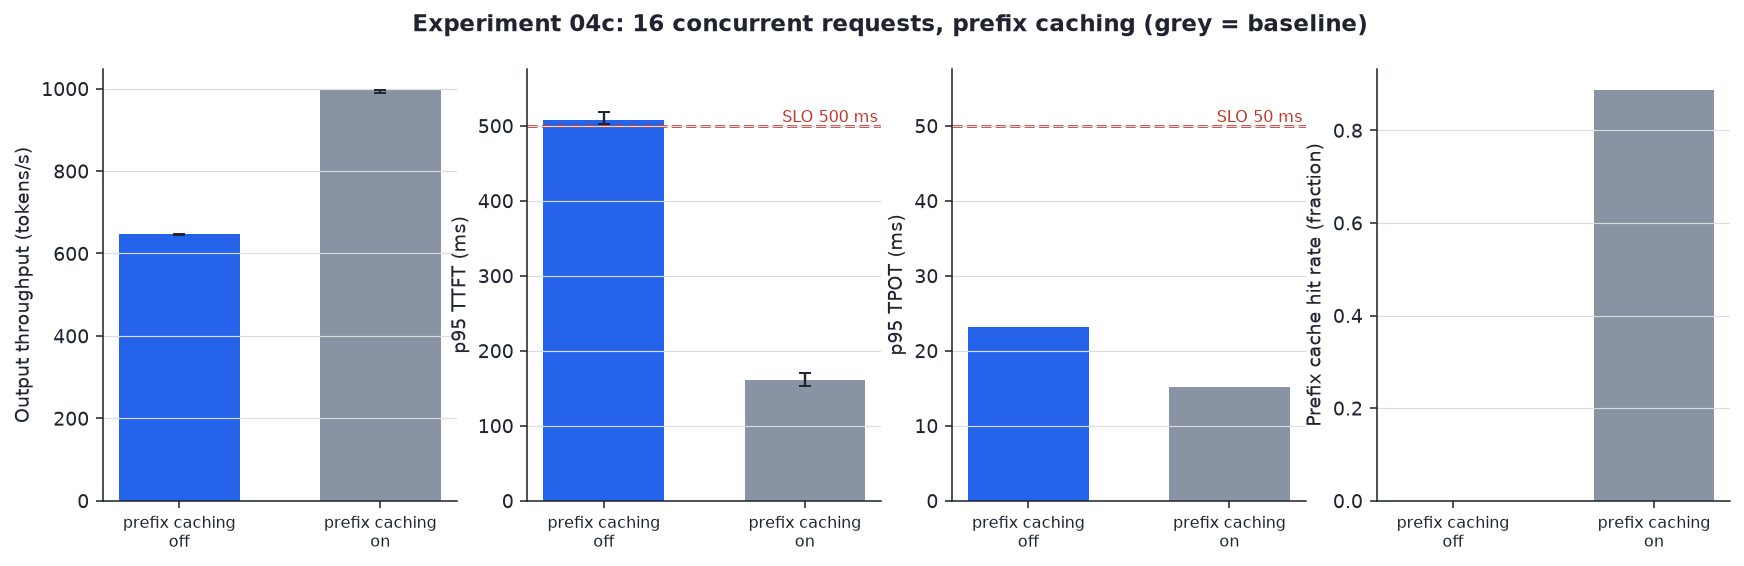
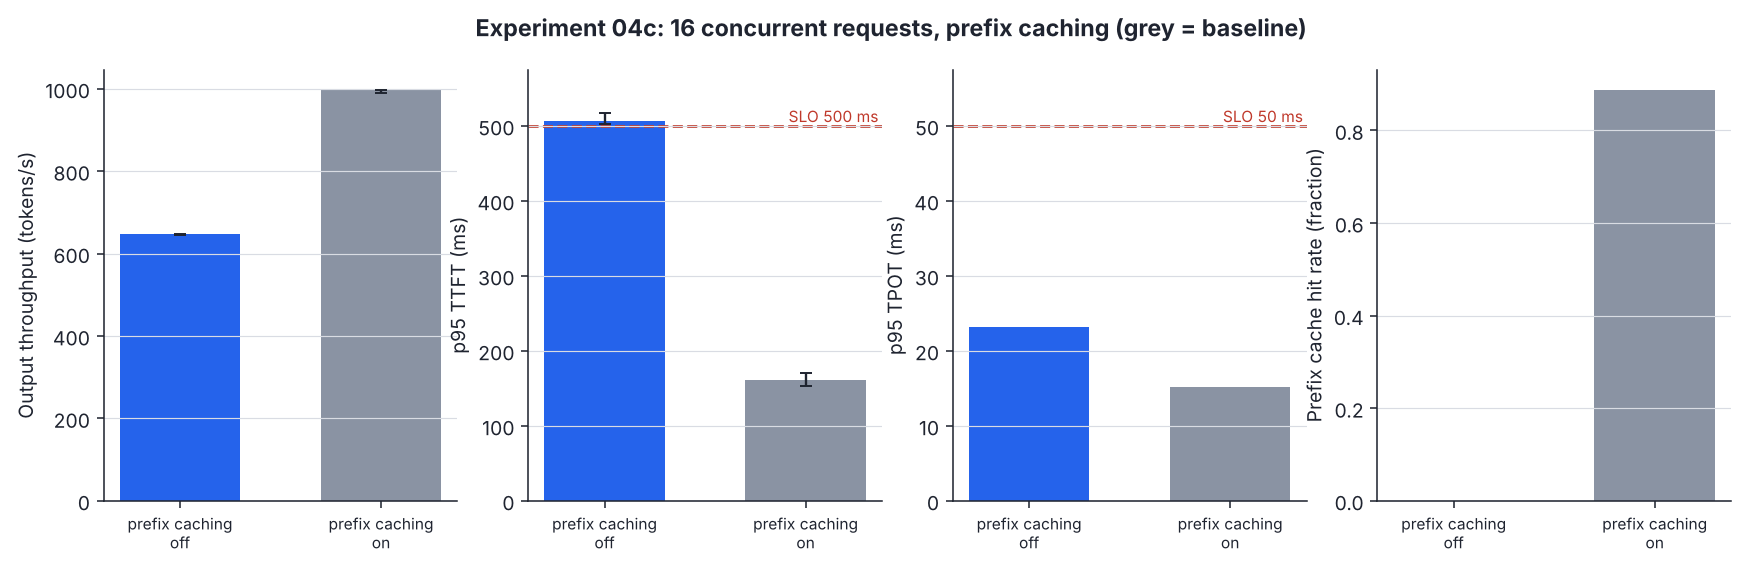
Combine clean 01-03 rerun with 04 results; rewrite report
01-03 from run 44748004817 (per-workload seeds, ~4% prefix-cache hit rate)
and 04a-04d from run 44708914259, medians of 3 repeats. 02 c64 now agrees
with 04a within 2.6%. Best SLO-compliant config moves from c32 ($0.14/1M,
an artifact of cache hits) to c16 ($0.27/1M). Report documents the seed
bug, corrects the 03 explanation, and adds p99 ITL evidence for 04b.

diff --git a/report.md b/report.md
@@ -1,71 +1,82 @@
 # vLLM serving: engineering report
 
-> **Correction pending (2026-11-20).** A 3-repeat rerun (`44708914259-1-L4`) showed run-to-run noise is tiny (throughput CV ≤ 3.3%), so the 23% gap noted under Limitations is *not* noise. It's a measurement bug: every workload used seed 42, so workloads run back-to-back on one server sent identical prompts and prefix caching served 69–94% of prefill from cache in **02 and 03**. Numbers in 02, 03 and the 05 pick below are inflated; 01 and 04a–04d were unaffected (≤ 5% hit rate, from warm-up). Fixed with per-workload seeds; 01–03 are being re-run.
+All numbers are medians of 3 repeats, each repeat in its own GPU container.
+- **01–03:** run `44748004817-1-L4` (per-workload seeds, see "Lesson" below).
+- **04a–04d:** run `44708914259-1-L4`.
 
-All numbers below come from run `44703863719-1-L4` (`results/summary.csv`, `results/SUMMARY.md`, `plots/`). Single run per point; see Limitations for how much to trust small differences.
+Combined outputs are in `results/summary_agg.csv`, `results/SUMMARY.md` and `plots/`. The first single-shot run (`44703863719-1-L4`) is kept in `results/raw/` for history only; its 02/03 numbers are wrong.
 
 ## Setup
 
-- Model: `Qwen/Qwen2.5-1.5B-Instruct`, bf16 (~3.1 GB of weights).
-- Engine: vLLM 0.34.0, V1 engine (continuous batching always on), `vllm serve` driven by `vllm bench serve`.
-- GPU: NVIDIA L4 (24 GB, ~300 GB/s memory bandwidth) on Modal at $0.80/hr (checked 2026-11-20).
-- Workload default: 512 input / 128 output tokens, random dataset, seed 42, `--ignore-eos`, `--temperature 0`, 10 discarded warm-up requests.
-- SLO: p95 TTFT ≤ 500 ms, p95 TPOT ≤ 50 ms, zero failed requests.
-- Every run: 0 failed requests.
+- **Model:** `Qwen/Qwen2.5-1.5B-Instruct`, bf16 (~3.1 GB of weights).
+- **Engine:** vLLM 0.34.0, V1 engine (continuous batching always on), prefix caching on in the baseline. `vllm serve` is driven by `vllm bench serve`.
+- **GPU:** NVIDIA L4 (24 GB, ~300 GB/s memory bandwidth) on Modal at $0.80/hr (price checked 2026-11-20).
+- **Workload default:** 512 input / 128 output tokens, random-token prompts with a seed per workload, `--ignore-eos`, `--temperature 0`, 10 warm-up requests.
+- **SLO:** p95 TTFT ≤ 500 ms, p95 TPOT ≤ 50 ms, zero failed requests.
+- **Reliability:** 0 failed requests in every measured run.
+- **Repeatability:** throughput CV across all 23 points is at most 3.3% (median 0.7%). p95 TTFT CV is at most 10.2% (median 2.9%). Differences larger than ~5% are real.
 
 ## 01 Baseline latency
 
 **Measured:** concurrency 1, 50 prompts.
 
-**Result:** TTFT p50 36 ms / p95 39 ms. TPOT 13.4 ms (≈ 75 tokens/s for one user). E2E p95 1.75 s for 128 output tokens.
+**Result:** TTFT p50 38 ms / p95 43 ms. TPOT 13.4 ms (~75 tokens/s for one user). E2E p95 1.75 s for 128 output tokens.
 
-**Why:** decode is memory-bandwidth-bound. Each new token reads every weight once: 3.1 GB / 300 GB/s ≈ 10.3 ms is the theoretical floor. We measured 13.4 ms, about 77% of the bandwidth roofline. The remaining gap is kernel launch overhead, attention over the KV cache, and sampling. A 512-token prefill takes only ~36 ms because prefill processes all prompt tokens in parallel (one weight read, many tokens), which makes it compute-bound rather than bandwidth-bound.
+**Why:** decode is memory-bandwidth-bound.
+- Each new token reads every weight once: 3.1 GB / 300 GB/s ≈ 10.3 ms is the floor. We measured 13.4 ms, about 77% of the bandwidth roofline. The gap is kernel launch overhead, attention over the KV cache, and sampling.
+- A 512-token prefill takes only ~38 ms because prefill processes all prompt tokens in one pass over the weights. That makes prefill compute-bound, not bandwidth-bound.
 
-**Interview takeaway:** "At batch 1 the GPU is a memory-bandwidth machine. I can predict TPOT from model size ÷ bandwidth, and my measurement was within ~25% of that floor."
+**Interview takeaway:** "At batch 1 the GPU is a memory-bandwidth machine. I can predict TPOT from model size ÷ bandwidth, and the measurement was within ~25% of that floor."
 
 ## 02 Concurrency sweep
 
-**Measured:** same workload at max concurrency 1, 4, 8, 16, 32, 64.
+**Measured:** the same workload at max concurrency 1, 4, 8, 16, 32 and 64, all on one server, each step with its own prompts.
 
-| conc | out tok/s | TTFT p95 (ms) | TPOT p50 (ms) | $/1M out tok | SLO |
-|---|---|---|---|---|---|
-| 1 | 73 | 48 | 13.5 | 3.04 | yes |
-| 8 | 545 | 89 | 14.2 | 0.41 | yes |
-| 32 | 1603 | 191 | 17.6 | 0.14 | yes |
-| 64 | 2438 | 832 | 22.0 | 0.09 | **no** |
+| conc | out tok/s | TTFT p95 (ms) | TPOT p50 (ms) | ITL p99 (ms) | $/1M out tok | SLO |
+|---|---|---|---|---|---|---|
+| 1 | 73 | 40 | 13.4 | 15 | 3.03 | yes |
+| 4 | 269 | 150 | 13.9 | 17 | 0.83 | yes |
+| 8 | 496 | 254 | 14.9 | 37 | 0.45 | yes |
+| 16 | 833 | 427 | 16.4 | 99 | 0.27 | yes |
+| 32 | 1231 | 809 | 21.5 | 129 | 0.18 | **no** |
+| 64 | 1804 | 1721 | 32.0 | 138 | 0.12 | **no** |
 
-**Result:** throughput scaled ~7.5× from 1→8 (almost perfectly linear) and ~33× from 1→64, while TPOT p50 only rose from 13.5 to 22 ms. The SLO breaks between 32 and 64: p95 TTFT jumps from 191 to 832 ms.
+**Result:**
+- **Throughput scales almost for free at first.** From 1 to 16 users, throughput rose 11× while TPOT only went from 13.4 to 16.4 ms (+23%). From 1 to 64 it rose 25×.
+- **The SLO breaks between 16 and 32 users, on p95 TTFT** (427 → 809 ms). p95 TPOT stays far under its 50 ms limit throughout.
+- **Memory is not the limit.** KV cache usage peaked at only 6.9% at concurrency 64.
 
-**Why:** batching amortizes the weight reads. One pass over the weights produces a token for every sequence in the batch, so up to ~16 concurrent requests each user barely notices (TPOT +10%) while total throughput climbs ~14×. Past that, each step does more compute and new prompts' prefills interleave with decode steps, so per-token latency starts to rise. At 64, prefill of new arrivals queues behind a busy engine, and that shows up first in the TTFT tail (p95), not the median. Memory was not the limit: KV cache usage peaked at only ~7% at concurrency 64.
+**Why:**
+- **Batching amortizes the weight reads.** One pass over the weights produces a token for every sequence in the batch, so at small batch sizes extra users cost almost nothing.
+- **Prefill is the bottleneck past that point.** As concurrency rises, more new prompts arrive per second. Their prefills queue and also interleave with decode steps. Queueing shows up in TTFT. Interleaving shows up as ITL p99 spikes (15 ms at 1 user, ~100–140 ms at 16+), where a decode token waits behind someone's prefill chunk.
+- **The tail goes first.** Median TTFT barely moves from 32 to 64 users (370 → 413 ms) while p95 doubles. Unlucky requests land behind a burst of prefills.
 
-**Interview takeaway:** "Concurrency is the cheapest lever: 22× lower cost per token from 1 to 32 users. The constraint that binds first is tail TTFT, not average latency and not memory."
+**Interview takeaway:** "Concurrency is the cheapest lever: 11× cost reduction from 1 to 16 users. The first thing to break is tail TTFT, driven by prefill queueing. It's not average latency and not memory."
 
 ## 03 Prefill vs decode
 
 **Measured:** input {128, 1024, 4096} × output {64, 512} at concurrency 8.
 
-| in → out | TTFT p50 (ms) | TPOT p50 (ms) | E2E p95 (s) |
-|---|---|---|---|
-| 128 → 64 | 54 | 13.8 | 0.95 |
-| 1024 → 64 | 237 | 17.5 | 1.39 |
-| 4096 → 64 | 708 | 34.3 | 3.16 |
-| 128 → 512 | 48 | 13.8 | 7.13 |
-| 1024 → 512 | 52 | 14.7 | 7.58 |
-| 4096 → 512 | 807 | 19.8 | 11.11 |
+| in → out | TTFT p50 (ms) | TPOT p50 (ms) | ITL p95 (ms) | E2E p95 (s) |
+|---|---|---|---|---|
+| 128 → 64 | 59 | 14.0 | 15 | 0.95 |
+| 1024 → 64 | 204 | 18.9 | 67 | 1.46 |
+| 4096 → 64 | 853 | 37.7 | 146 | 3.37 |
+| 128 → 512 | 67 | 14.0 | 14 | 7.24 |
+| 1024 → 512 | 207 | 15.3 | 15 | 8.10 |
+| 4096 → 512 | 855 | 20.0 | 18 | 11.23 |
 
 **Result:**
-- **Input length drives TTFT.** At 4096 input tokens, TTFT is 700–800 ms, over the SLO even at concurrency 8.
-- **Output length drives E2E.** Going from 64 to 512 output tokens raises E2E 3.5–7.5×, roughly output_len × TPOT on top of TTFT.
-- **Long prompts slow other users' decode.** At 4096→64, TPOT p50 is 34 ms and ITL p95 is 142 ms, versus ~14 ms for short prompts.
-- **Odd one out.** 1024→512 has a *lower* TTFT (52 ms) than 1024→64 (237 ms).
+- **Input length sets TTFT,** and output length has no effect on it: 59 / 204 / 853 ms for 128 / 1024 / 4096 input tokens, the same with 64 or 512 outputs. 4096-token prompts miss the 500 ms SLO even at concurrency 8.
+- **Output length sets E2E.** Going from 64 to 512 output tokens raises E2E 3.3–7.6×. E2E ≈ TTFT + output_len × TPOT; for example, 67 ms + 512 × 14 ms ≈ 7.2 s.
+- **Long prompts slow everyone's decode, but only when outputs are short.** At 4096 → 64, TPOT is 37.7 ms with ITL p95 146 ms. At 4096 → 512, it's 20.0 ms with ITL p95 18 ms.
 
 **Why:**
 - **Prefill.** Prefill work grows with prompt length (linear for the MLPs, quadratic for attention), so TTFT tracks input length.
-- **Decode.** Decode emits one token per step per sequence, so E2E tracks output length.
-- **Interference.** When a 4096-token prefill is chunked into the same steps as other sequences' decode, those decode tokens wait. That is the TPOT/ITL hit.
-- **The odd case.** With short outputs, all 8 requests finish at about the same time and the next 8 arrive together, so their prefills collide. With long outputs, completions are staggered, so a new prompt usually prefills nearly alone. This is a workload-shape effect, not a property of 1024-token prompts.
+- **Decode.** Decode produces one token per step per sequence, so E2E tracks output length.
+- **The decode slowdown is a ratio effect.** A short-output request finishes quickly and is replaced by a new one, which brings a new 4096-token prefill. With 64-token outputs, prefills are a large share of all GPU steps, and decode tokens keep waiting behind them. With 512-token outputs, the same prefills are spread across 8× more decode steps, so the interference is diluted.
 
-**Interview takeaway:** "Prefill sets TTFT, decode sets E2E, and long prefills hurt everyone else's decode. That interference is exactly what chunked prefill (04b) is meant to manage."
+**Interview takeaway:** "Prefill sets TTFT, decode sets E2E, and how much prefill hurts decode depends on the ratio of prompt tokens to generated tokens. RAG-style traffic with long prompts and short answers is the worst case."
 
 ## 04a max_num_seqs (batch width)
 
@@ -73,13 +84,13 @@ All numbers below come from run `44703863719-1-L4` (`results/summary.csv`, `resu
 
 | max_num_seqs | out tok/s | TTFT p50 | TPOT p50 |
 |---|---|---|---|
-| 8 | 504 | 14.4 s | 14.9 ms |
-| 32 | 1343 | 3.2 s | 22.2 ms |
-| 256 | 1869 | 0.38 s | 31.0 ms |
+| 8 | 504 | 14.3 s | 14.9 ms |
+| 32 | 1345 | 3.2 s | 21.9 ms |
+| 256 | 1851 | 0.39 s | 31.3 ms |
 
-**Result:** capping the batch at 8 cut throughput 3.7× and pushed median TTFT to 14 seconds. The small cap did give the best per-token latency (14.9 ms vs 31 ms).
+**Result:** capping the batch at 8 cut throughput 3.7× and pushed median TTFT to 14 seconds, while giving the fastest tokens per user (14.9 ms vs 31.3 ms).
 
-**Why:** V1 always batches continuously, but `max_num_seqs` limits how many sequences can share each step. With a cap of 8, 56 of the 64 requests sit in the waiting queue, so TTFT becomes pure queueing time. The running 8 get fast, light decode steps. A wider batch spreads each weight read over more sequences, giving higher throughput but a heavier step and slower tokens for each user.
+**Why:** V1 always batches continuously, but `max_num_seqs` limits how many sequences share each step. With a cap of 8, 56 of 64 requests sit in the waiting queue, so their TTFT is pure queueing time. The 8 that are running get light, fast decode steps. A wider batch spreads each weight read over more sequences: more throughput, but a heavier step and slower tokens for each user.
 
 **Interview takeaway:** "Batch width trades per-user token speed against queueing. Too narrow and users wait in line; for an interactive SLO the queue is the bigger problem."
 
@@ -87,39 +98,41 @@ All numbers below come from run `44703863719-1-L4` (`results/summary.csv`, `resu
 
 **Measured:** token budget per step of 512 / 2048 (baseline) / 8192, with 4096-token prompts at concurrency 16.
 
-| budget | out tok/s | TTFT p50 | TPOT p50 | ITL p95 |
-|---|---|---|---|---|
-| 512 | 288 | 636 ms | 50.2 ms | 57 ms |
-| 2048 | 297 | 875 ms | 47.0 ms | 147 ms |
-| 8192 | 291 | 1914 ms | 39.8 ms | 28 ms |
+| budget | out tok/s | TTFT p50 | TPOT p50 | ITL p95 | ITL p99 |
+|---|---|---|---|---|---|
+| 512 | 285 | 642 ms | 51.1 ms | 57 ms | 59 ms |
+| 2048 | 300 | 768 ms | 47.0 ms | 147 ms | 151 ms |
+| 8192 | 289 | 1938 ms | 39.6 ms | 27 ms | **560 ms** |
 
-**Result:** throughput was the same within noise (~3%), so this knob doesn't buy throughput here. What it changes is how latency is distributed:
-- **512:** best TTFT, worst TPOT.
-- **8192:** worst TTFT, best TPOT and best p95 ITL.
-- **2048:** a bad p95 ITL. No config met the SLO, because 4096-token prompts at concurrency 16 are too heavy for an L4 with this model.
+**Result:** throughput is flat (285–300 tok/s), so this knob doesn't buy throughput. It changes the *shape* of the latency:
+- **512:** best TTFT. Inter-token latency is consistently ~57 ms with no spikes.
+- **2048:** frequent medium stalls of ~150 ms.
+- **8192:** worst TTFT and the best p95 ITL (27 ms), but a **560 ms p99**, the worst stall of the three.
 
-**Why (best explanation, worth re-running to confirm):**
-- **512.** Long prompts are split into many small chunks. Every step stays light, so decode is never badly stalled, but prefill work is spread across many steps that all carry some extra load, which raises median TPOT.
-- **8192.** A whole 4096-token prompt fits in one step. Prefills finish in a few big steps, so most decode steps are pure decode and fast (low p95 ITL). The stalls become rarer but larger, and p95 hides them. Admitting big prefills in bursts also lengthens the queue for later arrivals (high TTFT).
-- **2048.** Each prompt takes two medium chunks, so moderate stalls land on more than 5% of tokens, which shows up in p95 ITL.
+No config meets the SLO; 4096-token prompts at concurrency 16 are too heavy for this GPU and model.
 
-p99/max ITL would separate "rare big stalls" from "frequent medium stalls". That is the next measurement to add.
+**Why:**
+- **Same work, different scheduling.** The chunk budget decides how a long prefill is sliced across engine steps. Total work is the same, so throughput doesn't change. What changes is how the cost lands on concurrent decodes.
+- **512.** Many small chunks. Every step carries a little prefill, so decode is never badly stalled, but every token is a bit slower (high median TPOT).
+- **8192.** A whole 4096-token prompt fits in one step, so most steps are pure decode and fast. When a prefill step does happen, every decoding sequence waits for all of it: rare but huge stalls. They are invisible at p95 (27 ms) and dominant at p99 (560 ms).
+- **2048.** Two medium chunks per prompt, so medium stalls land on more than 5% of tokens.
+- **TTFT.** Larger budgets let the scheduler admit several big prefills at once, which delays later arrivals.
 
-**Interview takeaway:** "The chunked-prefill budget doesn't change total work, it changes who waits. Small chunks protect time-to-first-token, big chunks protect steady decode. Choose based on which SLO you're defending, and look at more than one percentile."
+**Interview takeaway:** "The chunked-prefill budget doesn't change total work, it changes who waits and how often. Small chunks give smooth, predictable streaming. Big chunks look great at p95 and terrible at p99. This is why I report more than one percentile: the 8192 config would have looked best if I'd stopped at p95."
 
 ## 04c Prefix caching
 
-**Measured:** caching on (baseline) vs off; every request shares a 1024-token prefix plus a 128-token unique suffix, concurrency 16.
+**Measured:** caching on (baseline) vs off. Every request shares a 1024-token prefix plus a 128-token unique suffix, at concurrency 16.
 
 **Result:**
-- TTFT p50 fell from 430 ms to 109 ms (−75%), and p95 from 590 ms to 174 ms.
-- Throughput rose 61% (613 → 990 tok/s), and cost per token fell by the same factor ($0.36 → $0.23 per 1M).
-- Prefix cache hit rate was 0.89, almost exactly the shared fraction 1024/1152 = 0.889.
-- Caching on is the only config here that meets the SLO.
+- **TTFT:** p50 fell from 331 ms to 98 ms (−70%), and p95 from 507 ms to 161 ms.
+- **Throughput:** rose 54% (646 → 996 tok/s), and cost fell from $0.34 to $0.22 per 1M output tokens.
+- **Hit rate:** 0.89, matching the shared fraction 1024/1152 = 0.889.
+- **SLO:** caching off narrowly fails it (p95 TTFT 507 ms); caching on passes easily.
 
-**Why:** with caching, vLLM hashes KV blocks by their token content. A request whose prefix blocks are already cached skips prefill for those tokens and only computes the 128-token suffix. That removes ~89% of prefill compute, so TTFT drops and freed compute goes to decode. Without caching, every request recomputes the same 1024-token prefix.
+**Why:** vLLM hashes KV blocks by their token content. When a request's prefix blocks are already cached, it skips prefill for those tokens and computes only the 128-token suffix. That removes ~89% of prefill compute, so TTFT drops and the freed compute goes to decode (TPOT 21.7 → 14.9 ms).
 
-**Interview takeaway:** "For workloads with shared prompts (system prompts, RAG templates, multi-turn chat), prefix caching is close to free performance: the hit rate matched the theoretical shared fraction, and it was the difference between passing and failing the SLO."
+**Interview takeaway:** "For shared-prompt traffic (system prompts, RAG templates, multi-turn chat), prefix caching is nearly free performance. The hit rate matched the theoretical shared fraction. It was also strong enough to fool my own benchmark (see Lesson)."
 
 ## 04d KV cache capacity
 
@@ -127,47 +140,64 @@ p99/max ITL would separate "rare big stalls" from "frequent medium stalls". That
 
 | KV budget | KV peak | preemptions | out tok/s | TTFT p95 | TPOT p95 | E2E p95 |
 |---|---|---|---|---|---|---|
-| default (~15 GB) | 17% | 0 | 1871 | 3.4 s | 33.5 ms | 20.3 s |
+| default (~15 GB) | 17% | 0 | 1905 | 3.3 s | 32.9 ms | 20.0 s |
 | 2 GiB | 100% | 70 | 1670 | 7.0 s | 45.7 ms | 26.1 s |
 
 **Result:**
-- The small cache filled to 100% and caused 70 preemptions.
-- Throughput fell 11%, p95 TTFT doubled, and p95 E2E rose 29%.
-- With the default budget, the L4 used only 17% of its KV cache even at this load.
+- The 2 GiB cache filled to 100% and caused 70 preemptions (the median; all 3 repeats were consistent).
+- Throughput fell 12%, p95 TTFT doubled, and p95 E2E rose 31%.
+- At default settings the L4 used only 17% of its KV cache at this load.
 
 **Why:**
-- **Running out of blocks.** Each running sequence needs KV blocks for every token so far. When no free block is left for the next decode step, the scheduler preempts a running sequence: it frees that sequence's blocks and later recomputes its whole prefix. That is wasted prefill work (lower throughput) plus extra waiting for the victim (tail latency).
-- **Validating the setup.** My per-token estimate (2 × 28 layers × 2 KV heads × 128 head dim × 2 bytes ≈ 28 KiB) correctly predicted that 98k tokens would not fit in 2 GiB.
+- **Running out of blocks.** Every running sequence needs KV blocks for all of its tokens so far. When no free block is left for the next decode step, the scheduler preempts a running sequence: it frees that sequence's blocks and later recomputes its whole prefix. That is wasted prefill work (lower throughput) plus extra waiting for the evicted request (worse tail).
+- **The prediction held.** My per-token estimate (2 × 28 layers × 2 KV heads × 128 head dim × 2 bytes ≈ 28 KiB) correctly predicted that 98k tokens would not fit in 2 GiB.
 
-**Interview takeaway:** "KV cache is the real capacity limit for concurrency. I sized the experiment from first principles to force exhaustion, and preemption shows up as recompute: lower throughput and a much worse tail. On this GPU and model there's ~6× headroom, so a bigger model would hit this wall much sooner."
+**Interview takeaway:** "KV cache is the real capacity limit for concurrency. I sized this experiment from first principles to force exhaustion. Preemption shows up as recompute: lower throughput and a much worse tail. This model on an L4 has ~6× headroom, so a bigger model would hit this wall far sooner."
 
 ## 05 Cost / performance
 
-**Result:** the cheapest config that meets the SLO is the **baseline at concurrency 32**: 1603 output tok/s, p95 TTFT 191 ms, p95 TPOT 17.9 ms, **$0.139 per 1M output tokens** on an L4. Concurrency 64 is 35% cheaper ($0.091) but fails the TTFT SLO (832 ms p95). The single-user point costs $3.04, 22× more.
+**Result:**
+- **Best under the SLO, general traffic:** baseline at **concurrency 16**, 833 tok/s, p95 TTFT 427 ms, p95 TPOT 18 ms, **$0.27 per 1M output tokens** on an L4. Concurrency 32 would cost $0.18 but fails p95 TTFT (809 ms).
+- **Shared-prefix traffic:** with prefix caching, concurrency 16 reaches 996 tok/s at **$0.22 per 1M** with p95 TTFT 161 ms, leaving TTFT headroom to push concurrency higher.
+- **Single user:** $3.03 per 1M, 11× more than the SLO-bound optimum.
 
-**Why:** the GPU costs the same per hour whether it's busy or not, so cost per token is just price ÷ throughput. Cost keeps falling as concurrency rises until the latency SLO binds. The optimum sits just before the TTFT tail crosses the limit, which is why you pick "max throughput subject to an SLO" rather than "max throughput".
+**Why:** the GPU costs the same per hour whether it's busy or not, so cost per token is just price ÷ throughput. Cost keeps falling as concurrency rises until the latency SLO binds. The optimum is the last point before the TTFT tail crosses the limit, so the target is "max throughput subject to an SLO", not "max throughput".
 
-**Interview takeaway:** "My recommendation for this model on an L4 is to cap concurrency around 32 per replica and scale horizontally beyond that. For prompt-heavy traffic, turn on prefix caching first, since it moved a failing config to passing."
+**Interview takeaway:** "For this model on an L4, cap each replica at ~16 concurrent requests for a 500 ms p95 TTFT and scale horizontally beyond that. For prompt-heavy traffic, turn on prefix caching before buying more GPUs."
+
+## Lesson: my benchmark was fooled by prefix caching
+
+The first version gave every workload the same random seed (42). Workloads in one experiment run back-to-back on the same server, so 02 and 03 kept sending identical prompts. With prefix caching on, 69–94% of prefill came from cache.
+
+**How it was caught:** repeated runs showed container noise was tiny (CV ≤ 3.3%). Yet the identical config and workload (baseline, 512/128, 64 users) gave 2478 tok/s in 02 and 1851 in 04a, consistently across all 3 repeats. Noise couldn't explain that, and the prefix-cache hit-rate telemetry (0.69–0.88 vs 0.03) pinpointed it.
+
+**Fix:** seed = 42 + crc32(workload id). Workloads on one server never share prompts, while the same workload under different configs still gets identical prompts, so comparisons stay fair. After the fix, 02 and 04a agree within 2.6% and hit rates are ~4% (the warm-up re-sends the first prompt).
+
+**What it got wrong:**
+- **Concurrency limit:** the contaminated 02 said concurrency 32 met the SLO (p95 TTFT 191 ms, $0.14/1M). The truth is 809 ms. The best SLO-compliant config is concurrency 16 at $0.27/1M, so the bug made the system look about 2× cheaper than it is.
+- **Explanation:** it also produced a fake TTFT anomaly in 03 (1024 → 512 looked 4× faster than 1024 → 64), which I had initially explained with a plausible but wrong story about request timing.
+
+**Takeaway:** check cache hit rates in every benchmark of a caching system, and treat a result that survives repeats but contradicts another experiment as a bug until proven otherwise.
 
 ## Bottlenecks
 
 - **Single user:** memory bandwidth (TPOT ≈ 77% of the weights ÷ bandwidth floor).
-- **High concurrency, short prompts:** scheduling and prefill/decode interference. TTFT tail grows first; KV cache stayed under 7% used.
+- **Rising concurrency:** prefill queueing and prefill/decode interference. p95 TTFT breaks at 16–32 users; KV cache stayed under 7%.
 - **Long prompts:** prefill compute. 4096-token prompts miss the TTFT SLO even at concurrency 8.
 - **Constrained KV cache:** capacity, which leads to preemption and recompute (04d).
 
 ## Trade-offs
 
-- **Throughput vs tail latency:** 32 → 64 users gives +52% throughput but 4.4× worse p95 TTFT.
-- **Batch width:** narrow gives fast tokens but long queues; wide gives the opposite (04a).
-- **Chunk budget:** small protects TTFT, large protects steady decode; throughput unchanged (04b).
+- **Throughput vs tail latency:** 16 → 32 users gives +48% throughput but 1.9× worse p95 TTFT.
+- **Batch width:** narrow gives fast tokens and long queues; wide gives the opposite (04a).
+- **Chunk budget:** small gives smooth streaming; large gives better p95 but terrible p99. Throughput is unchanged (04b).
 - **Cache memory:** a smaller KV budget frees memory (e.g. for a bigger model or more replicas per GPU) at the cost of preemptions under load.
 
 ## Limitations
 
-- **One run per point.** The identical config and workload (baseline, 512/128, concurrency 64) gave 2438 tok/s in 02 and 1869 tok/s in 04a: a 23% spread between two L4 containers. Treat differences under ~25% across experiments as noise. Comparisons *within* one experiment share a run window but still ran on separate containers. Next step: 3 repeats per point, report the median.
-- **GPU utilization is not trustworthy here.** nvidia-smi utilization *falls* as concurrency rises because the sampling window includes warm-up and the high-concurrency runs are short (13 s). It also measures "a kernel was running", not SM occupancy. I don't draw conclusions from it.
+- **GPU utilization is not trustworthy here.** nvidia-smi utilization *falls* as concurrency rises because the sampling window includes warm-up and high-concurrency runs are short. It also measures "a kernel was running", not SM occupancy. I don't draw conclusions from it.
 - **Memory numbers are pre-allocated.** vLLM reserves ~90% of GPU memory at startup (~20 GB peak in every default run), so `gpu_mem_peak` doesn't vary with load. KV cache usage % is the meaningful signal.
-- **Workload.** Random-token prompts (no natural-text structure); a single model and GPU type; `--ignore-eos` forces exact output lengths.
-- **Cost.** GPU time only (Modal also bills CPU and memory) at the listed price; container cold start (~2–3 min) is excluded.
+- **Workload.** Random-token prompts (no natural-text structure); one model and one GPU type; `--ignore-eos` forces exact output lengths. Closed-loop load (fixed concurrency), not a Poisson arrival rate.
+- **Warm-up.** vLLM's warm-up re-sends the first measured prompt, so one request per workload is a cache hit (~4% hit rate).
+- **Cost.** GPU time only (Modal also bills CPU and memory) at the listed price. Container cold start (~2–3 min) and the time spent waiting for an L4 are excluded.
 - **Version.** Results depend on vLLM 0.34.0 defaults and kernels.

diff --git a/results/SUMMARY.md b/results/SUMMARY.md
@@ -1,6 +1,6 @@
 # Benchmark summary
 
-- Runs: 44748004817-1-L4
+- Runs: 44708914259-1-L4, 44748004817-1-L4
 - Repeats: n = 3..3 runs per point (tables show medians; throughput as median (min–max) when n>1)
 - GPU: L4  |  vLLM: 0.34.0
 - Model(s): Qwen/Qwen2.5-1.5B-Instruct
@@ -36,9 +36,39 @@
 | baseline | 3 | 8 | 4096 | 64 | 159 (153–160) | 2.49 | 853 | 992 | 37.7 | 43.4 | 3370 | 0 | 154.0 | 1.396 | NO |
 | baseline | 3 | 8 | 4096 | 512 | 370 (365–370) | 0.72 | 855 | 915 | 20.0 | 20.7 | 11230 | 0 | 145.0 | 0.600 | NO |
 
+## 04a max_num_seqs
+
+| config | n | conc | in | out | out tok/s | req/s | TTFT p50 | TTFT p95 | TPOT p50 | TPOT p95 | E2E p95 | failed | GPU util % | KV peak % | $/1M out | SLO |
+|---|---|---|---|---|---|---|---|---|---|---|---|---|---|---|---|---|
+| max_seqs_8 | 3 | 64 | 512 | 128 | 504 (503–508) | 3.94 | 14344 | 14426 | 14.9 | 15.6 | 16269 | 0 | 73 | 1 | 0.441 | NO |
+| max_seqs_32 | 3 | 64 | 512 | 128 | 1345 (1330–1347) | 10.51 | 3243 | 3675 | 21.9 | 22.9 | 6425 | 0 | 51 | 3 | 0.165 | NO |
+| baseline | 3 | 64 | 512 | 128 | 1851 (1850–1885) | 14.46 | 389 | 1657 | 31.3 | 32.7 | 5615 | 0 | 47 | 7 | 0.120 | NO |
+
+## 04b max_num_batched_tokens
+
+| config | n | conc | in | out | out tok/s | req/s | TTFT p50 | TTFT p95 | TPOT p50 | TPOT p95 | E2E p95 | failed | ITL p95 | ITL p99 | $/1M out | SLO |
+|---|---|---|---|---|---|---|---|---|---|---|---|---|---|---|---|---|
+| batched_tokens_512 | 3 | 16 | 4096 | 128 | 285 (282–287) | 2.23 | 642 | 1635 | 51.0 | 51.6 | 7447 | 0 | 56.6 | 59.2 | 0.780 | NO |
+| baseline | 3 | 16 | 4096 | 128 | 300 (284–302) | 2.35 | 768 | 1493 | 47.0 | 49.3 | 7382 | 0 | 147.1 | 151.1 | 0.740 | NO |
+| batched_tokens_8192 | 3 | 16 | 4096 | 128 | 289 (284–290) | 2.26 | 1938 | 2672 | 39.6 | 51.2 | 7832 | 0 | 27.0 | 560.2 | 0.768 | NO |
+
+## 04c Prefix caching
+
+| config | n | conc | in | out | out tok/s | req/s | TTFT p50 | TTFT p95 | TPOT p50 | TPOT p95 | E2E p95 | failed | prefix hit rate | $/1M out | SLO |
+|---|---|---|---|---|---|---|---|---|---|---|---|---|---|---|---|
+| no_prefix_cache | 3 | 16 | 1152 | 128 | 646 (645–647) | 5.05 | 331 | 507 | 21.7 | 23.2 | 3202 | 0 | - | 0.344 | NO |
+| baseline | 3 | 16 | 1152 | 128 | 996 (989–997) | 7.78 | 98 | 161 | 14.9 | 15.2 | 2008 | 0 | 0.89 | 0.223 | yes |
+
+## 04d KV cache capacity (kv_cache_memory_bytes)
+
+| config | n | conc | in | out | out tok/s | req/s | TTFT p50 | TTFT p95 | TPOT p50 | TPOT p95 | E2E p95 | failed | KV peak % | preemptions | $/1M out | SLO |
+|---|---|---|---|---|---|---|---|---|---|---|---|---|---|---|---|---|
+| baseline | 3 | 64 | 1024 | 512 | 1905 (1848–1907) | 3.72 | 569 | 3330 | 32.6 | 32.9 | 19965 | 0 | 17 | 0 | 0.117 | NO |
+| kv_cache_2gib | 3 | 64 | 1024 | 512 | 1670 (1631–1672) | 3.26 | 1656 | 6969 | 30.6 | 45.7 | 26143 | 0 | 100 | 70 | 0.133 | NO |
+
 ## 05 Cost / performance under SLO
 
-Best config meeting the SLO (max output tok/s = min $/1M tokens): **baseline** at concurrency **16** (experiment 02, L4): 833 output tok/s (median of n=3), p95 TTFT 427 ms, p95 TPOT 18.1 ms, **$0.267 per 1M output tokens**.
+Best config meeting the SLO (max output tok/s = min $/1M tokens): **baseline** at concurrency **16** (experiment 04c, L4): 996 output tok/s (median of n=3), p95 TTFT 161 ms, p95 TPOT 15.2 ms, **$0.223 per 1M output tokens**.
 
 ## Run-to-run variance
 
@@ -59,11 +89,20 @@ One row per (experiment, config, workload); each repeat ran in its own container
 | 03 | baseline | in1024_out512_c8 | 3 | 510 | 507 | 511 | 0.5 | 3.9 |
 | 03 | baseline | in4096_out64_c8 | 3 | 159 | 153 | 160 | 2.5 | 10.2 |
 | 03 | baseline | in4096_out512_c8 | 3 | 370 | 365 | 370 | 0.8 | 3.5 |
+| 04a | baseline | in512_out128_c64 | 3 | 1851 | 1850 | 1885 | 1.1 | 2.6 |
+| 04a | max_seqs_32 | in512_out128_c64 | 3 | 1345 | 1330 | 1347 | 0.7 | 0.6 |
+| 04a | max_seqs_8 | in512_out128_c64 | 3 | 504 | 503 | 508 | 0.6 | 0.5 |
+| 04b | baseline | in4096_out128_c16 | 3 | 300 | 284 | 302 | 3.3 | 1.5 |
+| 04b | batched_tokens_512 | in4096_out128_c16 | 3 | 285 | 282 | 287 | 0.8 | 0.5 |
+| 04b | batched_tokens_8192 | in4096_out128_c16 | 3 | 289 | 284 | 290 | 1.0 | 5.5 |
+| 04c | baseline | prefix1024x1_sfx128_out128_c16 | 3 | 996 | 989 | 997 | 0.4 | 5.3 |
+| 04c | no_prefix_cache | prefix1024x1_sfx128_out128_c16 | 3 | 646 | 645 | 647 | 0.2 | 1.5 |
+| 04d | baseline | in1024_out512_c64 | 3 | 1905 | 1848 | 1907 | 1.8 | 1.7 |
+| 04d | kv_cache_2gib | in1024_out512_c64 | 3 | 1670 | 1631 | 1672 | 1.4 | 0.9 |
 
-Throughput CV across 13 groups: max 2.5%, median 0.6%. p95 TTFT CV: max 10.2%, median 3.7%.
+Throughput CV across 23 groups: max 3.3%, median 0.7%. p95 TTFT CV: max 10.2%, median 2.9%.
 
 ### Same config + workload in different experiments
 
-No identical config + workload appears in more than one experiment.
-
+- `baseline` in512_out128_c64 in experiments 02, 04a (per-experiment medians 02: 1804 tok/s; 04a: 1851 tok/s; gap 2.6%). Pooled n=6: median 1831, min 1758, max 1885 tok/s, CV 2.4%, p95 TTFT CV 3.9%.
 

diff --git a/README.md b/README.md
@@ -76,15 +76,16 @@ report.md    engineering write-up (template; filled after real results)
 
 ## Key findings
 
-From run `44703863719-1-L4` (Qwen2.5-1.5B, vLLM 0.34.0, one L4). Details and caveats in [report.md](report.md).
+Qwen2.5-1.5B, vLLM 0.34.0, one L4. Medians of 3 repeats, each in its own container; throughput CV ≤ 3.3%. Details in [report.md](report.md).
 
 - **Batch 1 is bandwidth-bound:** TPOT 13.4 ms vs a 10.3 ms floor (3.1 GB weights / 300 GB/s).
-- **Concurrency is the big lever:** 73 → 1603 tok/s from 1 to 32 users with TPOT only 13.5 → 17.6 ms; cost per 1M output tokens $3.04 → $0.14.
-- **Tail TTFT binds first:** at 64 users p95 TTFT jumps to 832 ms (SLO 500 ms) while KV cache is only ~7% used.
-- **Prefix caching:** −75% TTFT, +61% throughput on a shared-prefix workload; hit rate 0.89 = the shared fraction.
-- **KV exhaustion:** a 2 GiB cache under ~98k tokens of demand caused 70 preemptions, 2× p95 TTFT, −11% throughput.
-- **Best under SLO:** baseline at concurrency 32 → **$0.139 / 1M output tokens** on an L4.
-- **Noise:** identical configs on two containers differed by 23%. Single runs; small differences are not significant.
+- **Concurrency is the big lever:** 73 → 833 tok/s from 1 to 16 users with TPOT only 13.4 → 16.4 ms; cost per 1M output tokens $3.03 → $0.27.
+- **Tail TTFT breaks first:** p95 TTFT crosses 500 ms between 16 and 32 users (427 → 809 ms), driven by prefill queueing; KV cache < 7% used.
+- **Chunked prefill:** an 8192-token budget has the best p95 inter-token latency (27 ms) and the worst p99 (560 ms). Throughput is unchanged.
+- **Prefix caching:** −70% TTFT, +54% throughput on a shared-prefix workload; hit rate 0.89 = the shared fraction.
+- **KV exhaustion:** a 2 GiB cache under ~98k tokens of demand caused 70 preemptions, 2× p95 TTFT, −12% throughput.
+- **Best under SLO:** concurrency 16 → **$0.27 / 1M output tokens** on an L4 ($0.22 with prefix caching on shared-prefix traffic).
+- **Caught a benchmark bug:** a shared random seed let prefix caching inflate early results ~2× on cost. It was found through repeats plus hit-rate telemetry and fixed with per-workload seeds.
 
 ## How this was built
 
